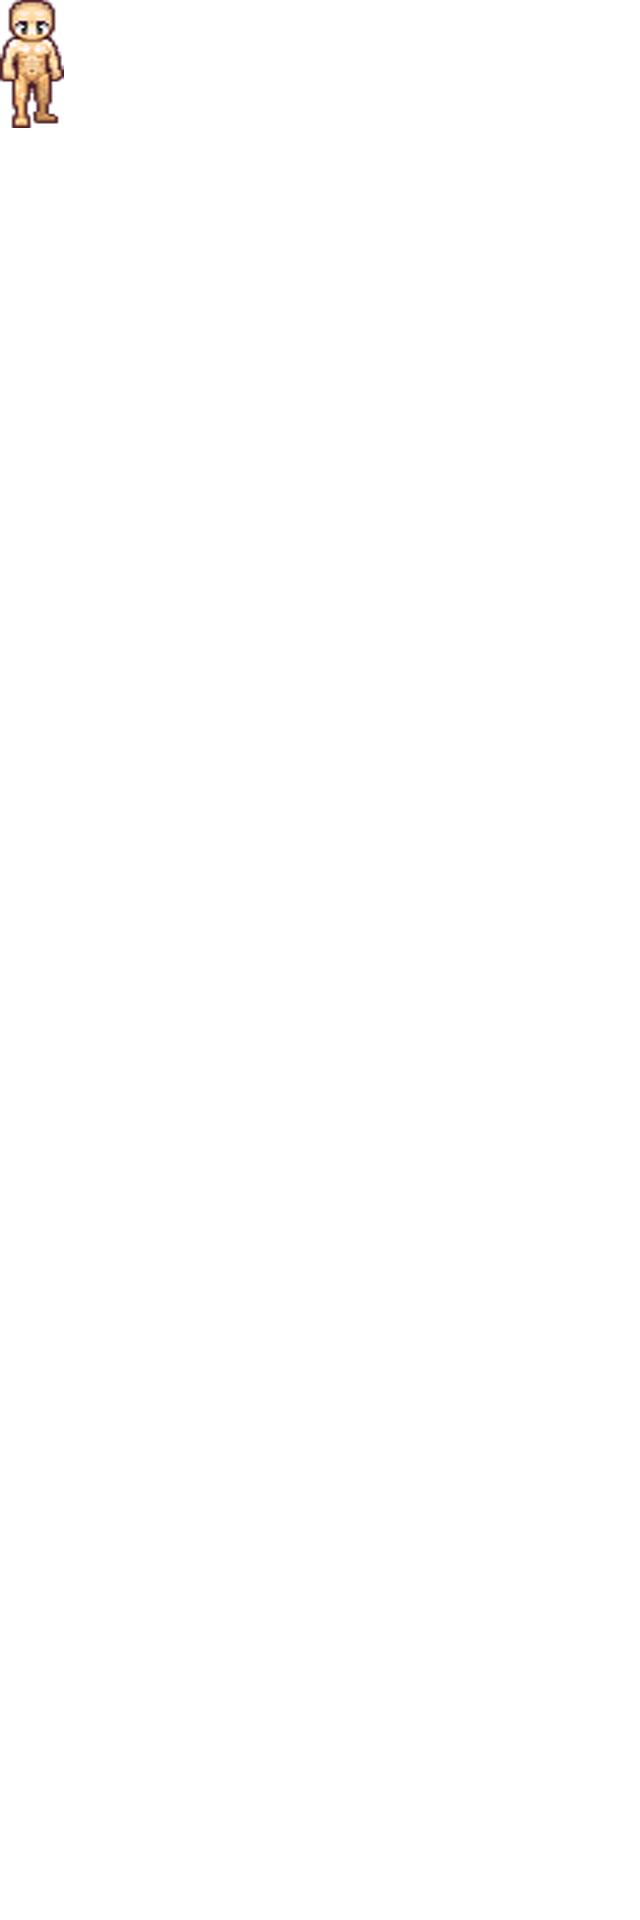
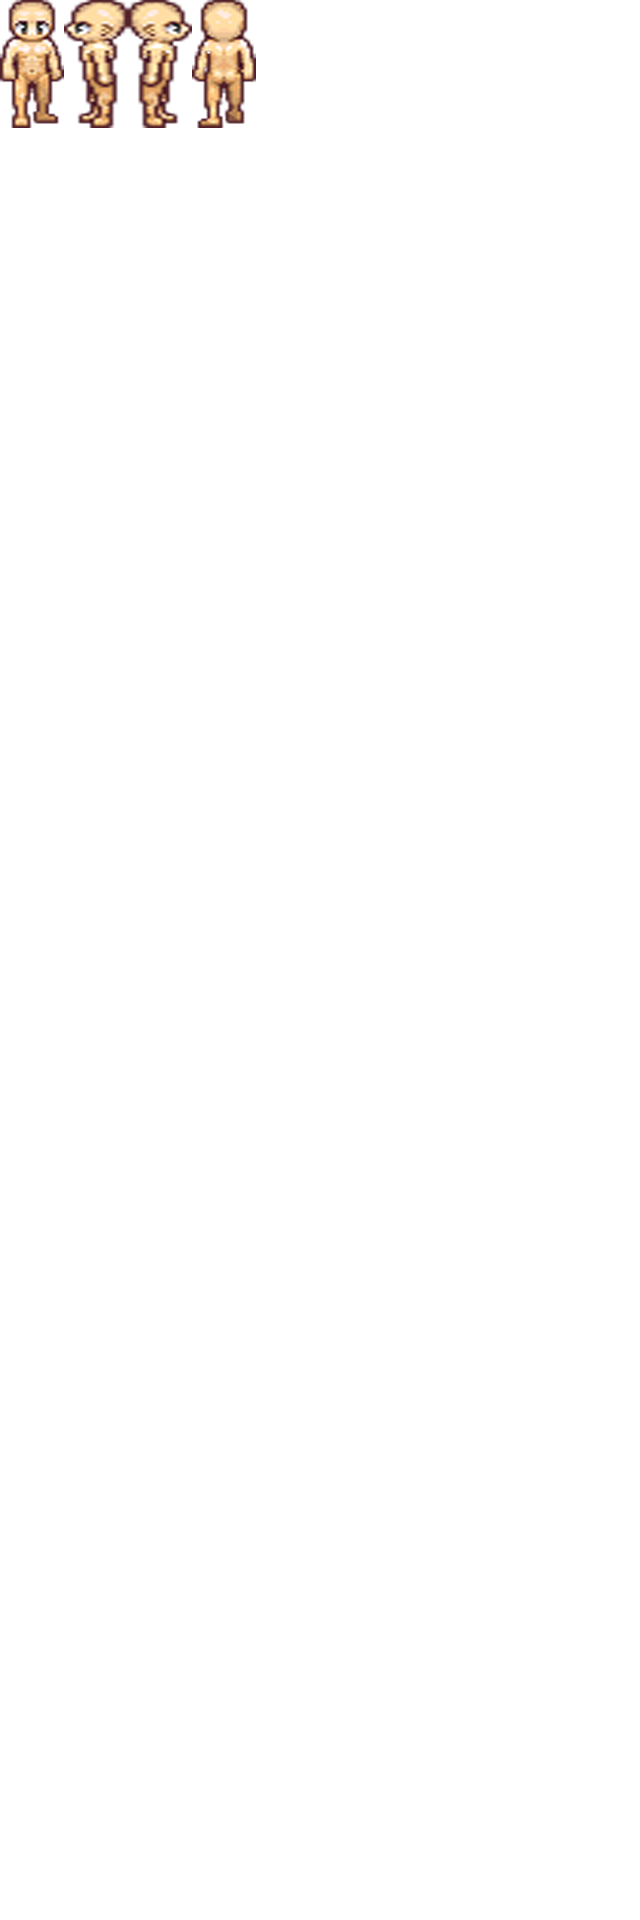
v 0.2.1
Added directional player sprites

Changed region(s): [[0.0938, 0.0, 0.4062, 0.0938]]

diff --git a/src/com/bourneless/roguelike/entity/player/Player.java b/src/com/bourneless/roguelike/entity/player/Player.java
@@ -4,6 +4,7 @@ import java.awt.Graphics2D;
 import java.awt.event.KeyEvent;
 import java.awt.image.BufferedImage;
 
+import com.bourneless.engine.main.Main;
 import com.bourneless.roguelike.entity.Entity;
 import com.bourneless.roguelike.entity.EntityType;
 import com.bourneless.roguelike.map.Map;
@@ -30,11 +31,13 @@ public class Player extends Entity {
 			if (map.getTiles()[(pos.x / 64) - 1][(pos.y / 64)].isPassable()) {
 				this.pos.x -= 64;
 				this.tile = map.getTiles()[pos.x / 64][pos.y / 64];
+				this.image = Main.resourceLoader.player[1];
 			}
 		} else if (e.getKeyCode() == 68) {
 			if (map.getTiles()[(pos.x / 64) + 1][(pos.y / 64)].isPassable()) {
 				this.pos.x += 64;
 				this.tile = map.getTiles()[pos.x / 64][pos.y / 64];
+				this.image = Main.resourceLoader.player[2];
 			}
 		}
 
@@ -42,11 +45,13 @@ public class Player extends Entity {
 			if (map.getTiles()[(pos.x / 64)][(pos.y / 64) - 1].isPassable()) {
 				this.pos.y -= 64;
 				this.tile = map.getTiles()[pos.x / 64][pos.y / 64];
+				this.image = Main.resourceLoader.player[3];
 			}
 		} else if (e.getKeyCode() == 83) {
 			if (map.getTiles()[(pos.x / 64)][(pos.y / 64) + 1].isPassable()) {
 				this.pos.y += 64;
 				this.tile = map.getTiles()[pos.x / 64][pos.y / 64];
+				this.image = Main.resourceLoader.player[0];
 			}
 		}
 	}
